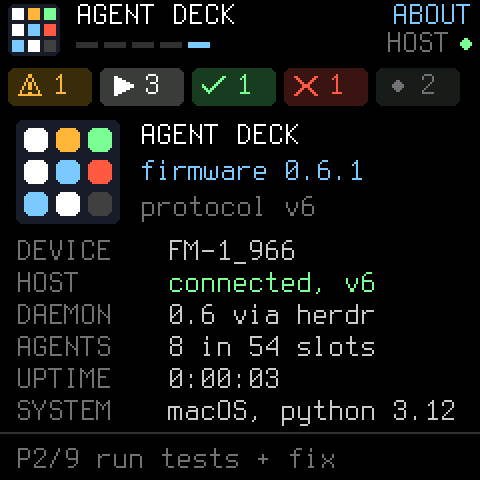
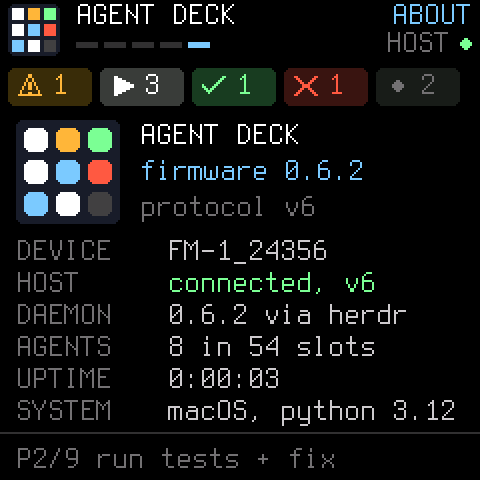
README and screenshots for 0.6.2

diff --git a/tools/emu_shots.py b/tools/emu_shots.py
@@ -79,7 +79,7 @@ class Scene:
     def hello(self):
         self.cc(CC_CTRL, 0x7F)                               # RESET
         self.frame(HELLO_ACK, [6])
-        self.text(TEXT, [8, 0], "0.6 via herdr")             # ABOUT's lines
+        self.text(TEXT, [8, 0], "0.6.2 via herdr")             # ABOUT's lines
         self.text(TEXT, [9, 0], "macOS, python 3.12")
         self.footer(0, "P2/9 run tests + fix")
 

diff --git a/README.md b/README.md
@@ -9,7 +9,7 @@ running on your computer.
 *What the animation is: a picture of the FM-1 (White and Blue colorway) with
 Agent Deck's screen playing in its display — a visualization, not a
 video of the author's unit. The screen content is not a mockup: every
-frame is the LCD of firmware 0.6.1, captured from the shipped package
+frame is the LCD of firmware 0.6.2, captured from the shipped package
 running in [fm1-emu](#see-it-running--fm1-emu) and set into the display
 pixel for pixel. The firmware runs on a real FM-1 today; footage of it
 has yet to replace this. Each screen is shown full size in
@@ -71,8 +71,8 @@ fire a canned prompt at it, put it on auto-approve, start a new agent on an
 empty key, hold REC and tap every blinking key to clear a row of approvals,
 and let the deck chime when someone needs you.
 
-> **Status (Nov 2026):** running on real hardware. **Firmware 0.6.1**
-> (protocol v6), the newest package (`dist/agentdeck-0.6.1.fwsc`), is
+> **Status (Nov 2026):** running on real hardware. **Firmware 0.6.2**
+> (protocol v6), the newest package (`dist/agentdeck-0.6.2.fwsc`), is
 > installed on the author's FM-1 — flashed over USB with the installer in
 > this repo, as every release from 0.1 on was before it — and driven
 > there by the daemon against a live Herdr session. Every package is
@@ -97,7 +97,7 @@ and let the deck chime when someone needs you.
 
 Colour means state everywhere: **amber** is waiting on you, **green** is
 finished, **red** is broken, **white** is working, **grey** is at rest.
-Every image here is the LCD of `dist/agentdeck-0.6.1.fwsc` running in
+Every image here is the LCD of `dist/agentdeck-0.6.2.fwsc` running in
 fm1-emu, fed the frames the daemon sends; the fleet of eight agents is
 made up for the pictures, the pixels are not.
 [`tools/emu_shots.py`](tools/emu_shots.py) regenerates all of them.
@@ -108,7 +108,7 @@ to do next.
 
 | Power-on | No daemon yet | Host connected, no agents |
 |---|---|---|
-| ![Splash: the nine-pad logo, AGENT DECK, firmware 0.6.1](docs/shot-splash.png) | ![Waiting for the host: NO HOST in the header, and the command to run on the computer](docs/shot-no-host.png) | ![No agents yet: pick a key, press PLAY, or start one in a terminal](docs/shot-empty.png) |
+| ![Splash: the nine-pad logo, AGENT DECK, firmware 0.6.2](docs/shot-splash.png) | ![Waiting for the host: NO HOST in the header, and the command to run on the computer](docs/shot-no-host.png) | ![No agents yet: pick a key, press PLAY, or start one in a terminal](docs/shot-empty.png) |
 
 **GRID** — the fleet. The header carries a logo whose nine pads are the
 first nine slots in their state colours, the page name, a five-segment
@@ -172,7 +172,7 @@ chip itself (both CPU cores, screen, keys, encoders, MIDI), so firmware
 packages run in it *unchanged* — the same `.fwsc` you would flash.
 
 The screens in [the tour](#a-tour-of-the-screens) come from there: the
-LCD of `dist/agentdeck-0.6.1.fwsc` booted in fm1-emu and fed the frame
+LCD of `dist/agentdeck-0.6.2.fwsc` booted in fm1-emu and fed the frame
 stream the daemon sends (injected through the FM-1's MIDI IN jack, which
 the firmware's platform merges into the same queue as USB MIDI). Two
 scripts drive it:
@@ -225,8 +225,13 @@ canned frames — for the full loop, pair the daemon with tmux/Herdr in
 player above is self-hosted because the upstream fm1-emu page only
 deep-links (`?fw=`) firmwares in its own catalog; a listing on the
 [FM-1 Firmware Hub](https://thefirmwarehub.com/) would put Agent Deck
-in that catalog too. The Hub only lists firmwares already tested on
-real hardware; Agent Deck now is, and has not been submitted yet.
+in that catalog too. Up to 0.6.1 that was not possible: the packages
+identified as `FM-1_96N`, numbers other firmwares on the Hub already
+use. Firmware 0.6.2 has an identity of its own and the repository now
+carries what the Hub asks for (`fmhub.json`, a card picture, a root
+`LICENSE`); the submission itself has not been made yet, and the Hub
+lists firmwares that make music, so a coding-agent controller may not
+qualify.
 
 ---
 
@@ -519,6 +524,7 @@ buttons act at once, on press).
 | 0.5 | the `+` marker, context gauges, the alert and feedback sounds, per-sound loudness |
 | 0.6 | the colour screens, the box view, the ABOUT page, the `Q` marker, the INFO / DIFF tag on DETAIL |
 | 0.6.1 | the box view's context gauge on the tile's right edge |
+| 0.6.2 | no new controls: its own package identity (`FM-1_2435N`) and USB name (`FM-1 AGTDECK`) |
 
 The five screen pages, in ALGORITHM order: **GRID** (every agent, as a
 list or as boxes), **DETAIL** (the selected agent plus six lines of its
@@ -640,8 +646,9 @@ an agent redraws its UI in an unusual way.
 
 `firmware/agentdeck.c` is the whole app. `firmware-build/` is a
 [Dinghy](https://github.com/zvenson/dinghy) tree with that file dropped
-in as the app and its own identity (package **FM-1_96N**, update screen
-`AGTDECK`, `STORE_MAGIC` `0x4147444B` — "AGDK"). The app is deliberately
+in as the app and its own identity (package **FM-1_2435N**, where N is
+the minor version — 0.6.2 is `FM-1_24356`; USB name `FM-1 AGTDECK`;
+update screen `AGTDECK`, `STORE_MAGIC` `0x4147444B` — "AGDK"). The app is deliberately
 boring C: no audio (the synth engine is gone — this is a controller),
 integer math only, redraw-only-what-changed, `platform_poll()` every
 loop, settings persisted to flash.
@@ -654,7 +661,7 @@ git clone --depth 1 --branch AC79NN_SDK_V1.2.1_2023-12-13 \
     https://gitee.com/Jieli-Tech/fw-AC79_AIoT_SDK.git ~/fw-AC79_AIoT_SDK
 pip install mido python-rtmidi Pillow
 
-./build.sh --release 0.6.1                   # -> build/agentdeck-0.6.1.fwsc
+./build.sh --release 0.6.2                   # -> build/agentdeck-0.6.2.fwsc
 
 # host emulator test (no device, no toolchain): tests/agentdeck.txt
 # (generated by tools/gen_host_test.py; on macOS add '-Dsection(x)=' to cc)
@@ -679,7 +686,7 @@ Name scenes to redo just those (`tools/emu_shots.py grid about`);
 Verified 2026-11-08 (firmware 0.1): the device build passes all of
 Dinghy's checks, the `.fwsc` parses under the installer's own
 `load_package` (CRCs OK), and the emulator output is in
-`firmware/host-test.log`. As of 0.6.1 (2026-11-13) the build still
+`firmware/host-test.log`. As of 0.6.2 (2026-11-13) the build still
 passes those checks at 65,292 B of 581,564 for the image and 18,432 B
 of 98,304 of RAM. One emulator quirk worth knowing: the host
 harness stubs `fm1_input_note_edges()` to 0, so the firmware diffs
@@ -701,7 +708,7 @@ fm1-emu.
 
 This section was written before the author's unit arrived, as the plan
 for its first flash. That unit has since been flashed over USB with
-step 3 below — every release from 0.1 to 0.6.1 — and runs Agent Deck
+step 3 below — every release from 0.1 to 0.6.2 — and runs Agent Deck
 today. The plan stays here as the checklist for anyone else's first
 flash.
 
@@ -738,7 +745,7 @@ that one line is the fix.
    use M-VAVE's M-UPGRADE updater (or a browser installer's
    "Return to official V15" option) if it shipped with V16.
 3. Flash Agent Deck over USB, using the package in `dist/`:
-   `python3 firmware-build/tools/fm1_install.py dist/agentdeck-0.6.1.fwsc`
+   `python3 firmware-build/tools/fm1_install.py dist/agentdeck-0.6.2.fwsc`
    (or the FM-1 Firmware Hub in Chrome/Edge). The installer asks before
    it writes; the FM-1 restarts into Agent Deck.
 4. Start the daemon (`--backend auto`), watch the FM-1 screen switch
@@ -759,6 +766,7 @@ mid-write.
 | Symptom | Likely cause / fix |
 |---|---|
 | Daemon: "no FM-1 MIDI port found" | Unit not plugged in, not flashed with Agent Deck, or another app holds the port. `--port` prints what it sees; check the cable carries data. |
+| The MIDI port is still called `Felucca` after updating to 0.6.2 | Releases up to 0.6.1 used the platform's USB name, and macOS remembers a MIDI device's name. The unit itself reports `FM-1 AGTDECK` (see System Information → USB); the daemon and installer find it under either name. To refresh the name, unplug the FM-1, delete the greyed-out device in Audio MIDI Setup → MIDI Studio, and plug it back in. |
 | FM-1 shows `NO HOST` | Daemon not running, or the heartbeat isn't flowing — restart the daemon; check the screen's header after ~2 s. |
 | Daemon: "herdr socket not found" | Herdr isn't running. Start it (`herdr server` for headless) or check `--herdr-session` / `$HERDR_SOCKET_PATH`. |
 | `agent.prompt: agent_blocked` | Working as designed: Herdr won't inject a prompt while an agent waits on an approval. Approve or deny it from the device (REC / FX) instead. |
@@ -816,6 +824,8 @@ menu-bar/status companion so the daemon can autostart.
 | Path | What |
 |---|---|
 | `PROTOCOL.md` | The wire spec (v6) |
+| `LICENSE` | GPL-3.0 |
+| `fmhub.json` · `docs/card.png` | The card text and picture for [The Firmware Hub](https://thefirmwarehub.com/) |
 | `host/agentdeck.py` | The daemon: Herdr + tmux backends, MIDI + simulate modes |
 | `host/test_simulate.sh` | End-to-end simulate test against real tmux panes |
 | `host/simulate-test.log` | Latest tmux test run — ALL PASS |
@@ -831,7 +841,7 @@ menu-bar/status companion so the daemon can autostart.
 | `docs/play/` | The self-hosted live player: vendored fm1-emu (MIT) + Agent Deck catalog + the auto-play demo script, served by GitHub Pages |
 | `docs/fm1-agent-deck-hero.jpg` | The FM-1 picture (White and Blue) the animation is built on, with the GRID page in its display |
 | `firmware-build/` | Dinghy tree + Agent Deck identity; `./build.sh` here |
-| `dist/agentdeck-0.6.1.fwsc` | The built firmware package, ready to flash, and the one installed on the author's FM-1 (`-0.6` … `-0.1`: earlier releases; the web player still runs 0.1) |
+| `dist/agentdeck-0.6.2.fwsc` | The built firmware package, ready to flash, and the one installed on the author's FM-1 (`-0.6.1` … `-0.1`: earlier releases; the web player still runs 0.1) |
 | `host/config.example.json` | Example daemon config (prompt presets, default agent) |
 | `tools/gen_host_test.py` | Generates the host-harness session `firmware-build/tests/agentdeck.txt` |
 
@@ -854,6 +864,6 @@ Agent Deck stands on a remarkable few months of FM-1 community work:
 
 ## License
 
-GPL-3.0, inherited from Dinghy/Felucca. See `firmware-build/LICENSE`
+GPL-3.0, inherited from Dinghy/Felucca. See `LICENSE`
 and `firmware-build/LICENSING.md`; keep the copyright headers if you
 redistribute.
